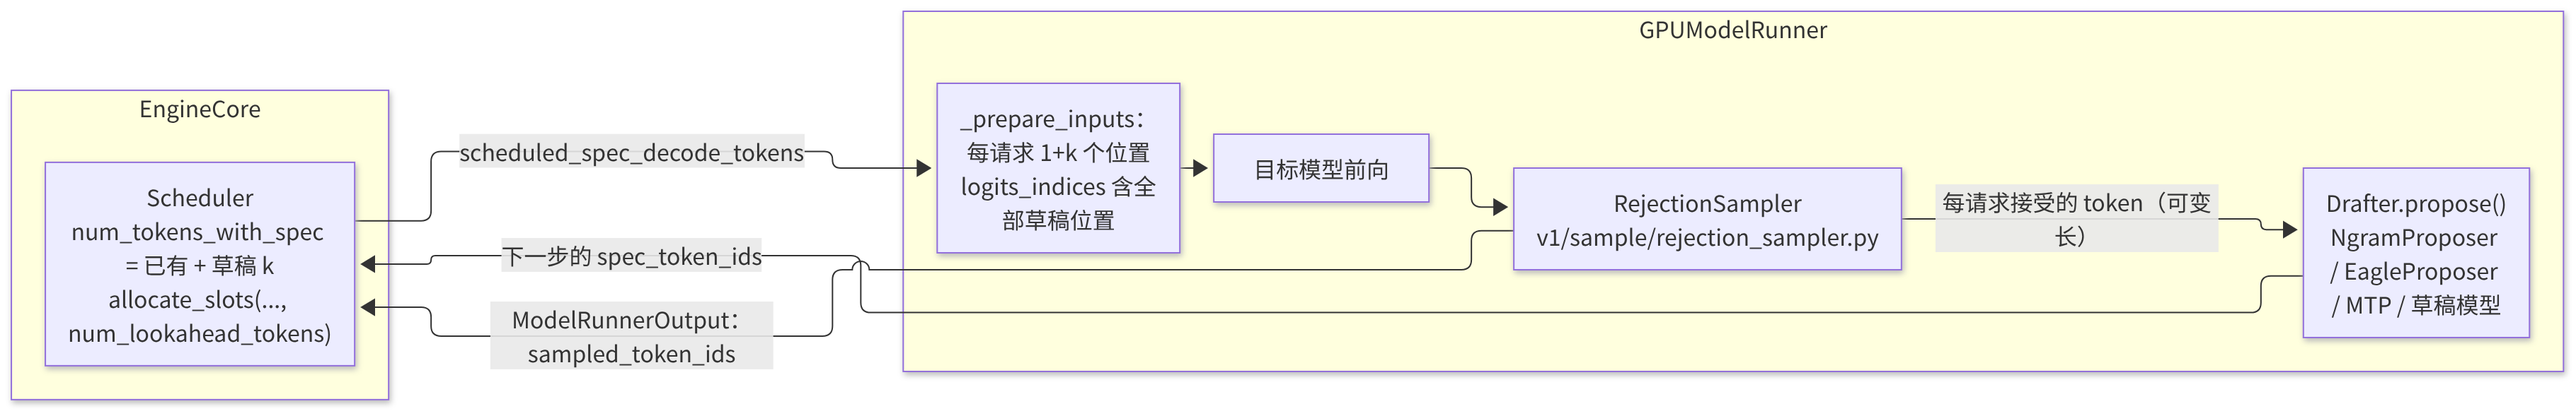
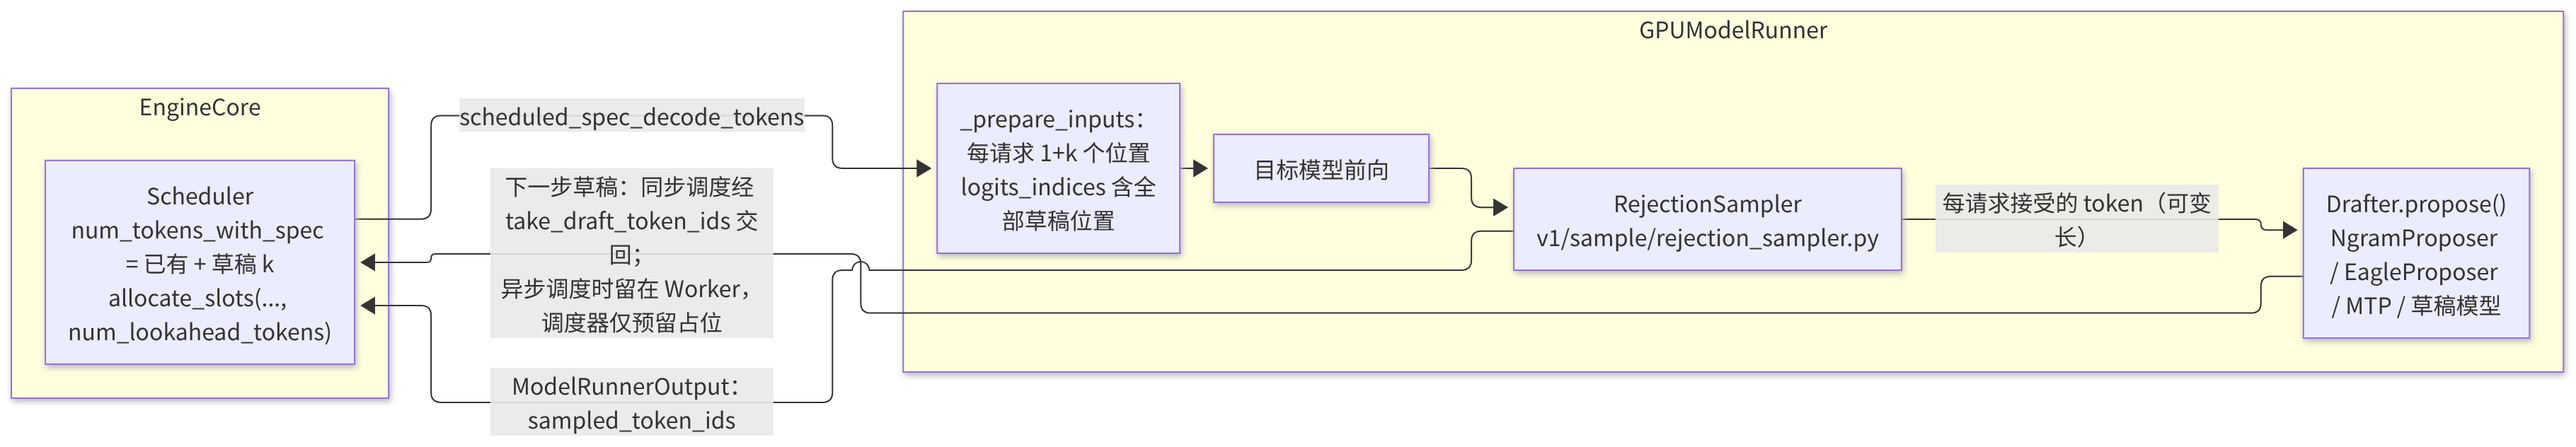
course: audit diagrams against vLLM v0.30.0; follow-up text fixes

diff --git a/course/revised/VERIFICATION.md b/course/revised/VERIFICATION.md
@@ -18,7 +18,7 @@
 
 正文与页脚共 59 处，其中 CONFIRMED 19、CORRECTED 39、UNVERIFIABLE-REWORDED 1、保留 0。
 
-edits.json 共 116 条替换（其中第 8 节所述未标注处修正 22 条）。与【待核】标记相关的替换：其中标记替换 68 条、页首 21 条，另有 5 条依赖性修改（这些文字本身没有标记，但内容直接依赖于某项更正）。
+edits.json 共 120 条替换（其中第 8 节所述未标注处修正 26 条）。与【待核】标记相关的替换：其中标记替换 68 条、页首 21 条，另有 5 条依赖性修改（这些文字本身没有标记，但内容直接依赖于某项更正）。
 
 ## 2. 最重要的更正
 
@@ -163,7 +163,7 @@ edits.json 共 116 条替换（其中第 8 节所述未标注处修正 22 条）
 - 提取 21 课中全部行内代码标识符、`VLLM_*` 环境变量与 `--` 参数，逐一在 `/workspace/vllm-src` 中检索是否存在；
 - 对同一行中“文件路径 + 符号”的组合，检查该符号是否确实定义在所写的文件中。
 
-修正共 22 处（`kind` 为 `extra` / `extra-insert`），均已写入 `/workspace/feishu-lessons-verified/` 与 `edits.json`。保留旧名称的括注，是为了方便阅读旧版本代码的读者对照。
+修正共 26 处（X01–X22 为第二轮检索结果，X23–X26 为第三轮图示核对时为保持正文与图示一致而补充）（`kind` 为 `extra` / `extra-insert`），均已写入 `/workspace/feishu-lessons-verified/` 与 `edits.json`。保留旧名称的括注，是为了方便阅读旧版本代码的读者对照。
 
 | ID | 课 | 修正内容 | 证据（v0.30.0） |
 |---|---|---|---|
@@ -189,6 +189,10 @@ edits.json 共 116 条替换（其中第 8 节所述未标注处修正 22 条）
 | X20 | B2 | B2 §4-5：init_device 中的 torch.cuda.set_device → torch.accelerator.set_device_index | vllm-src/vllm/v1/worker/gpu_worker.py:360,424 |
 | X21 | B6 | B6 §0：在先修要求段落之后新增“版本说明”段落（V2 为默认、V1 为回退、参见 F4） | vllm-src/vllm/envs.py:300,2037-2038; vllm/config/vllm.py:675-723,2815-2882; vllm/v1/worker/gpu_worker.py:469-478; vllm/v1/worker/gpu/model_runner.py:187,1631,1997 |
 | X22 | B6 | B6 §4：在介绍 GPUModelRunner 处注明其为 V1 实现，V2 位置见 F4 | vllm-src/vllm/v1/worker/gpu/model_runner.py:187; vllm/config/vllm.py:675-723 |
+| X23 | E2 | E2 §PP 消除气泡：max_concurrent_batches 属于 VllmConfig 而非 Executor，异步调度 + V2 时为 PP+1（与图 E2-fig2 一致） | vllm-src/vllm/config/vllm.py:589-599; vllm/v1/engine/core.py:210-237 |
+| X24 | E2 | E2 §源码：max_concurrent_batches 的位置 multiproc_executor.py → config/vllm.py | vllm-src/vllm/config/vllm.py:589（multiproc_executor.py 中已无 max_concurrent_batches） |
+| X25 | B6 | B6 §4 第 10 步：细化首轮 Q18 的表述，区分同步/异步调度下草稿的回传方式（与图 F1-fig1/fig2 一致） | vllm-src/vllm/v1/engine/core.py:621-628,727-735; vllm/v1/core/sched/async_scheduler.py:16,42-44; vllm/v1/core/sched/scheduler.py:2404-2460 |
+| X26 | C1 | C1 §源码-4：补入 KV 写入算子 unified_kv_cache_update（与图 C1-fig2 一致） | vllm-src/vllm/model_executor/layers/attention/attention.py:540-575,716-740; vllm/v1/attention/backends/triton_attn.py:316,756; vllm/v1/attention/backends/flash_attn.py:320,1438 |
 
 ### 8.1 不确定、未作修改的项
 
@@ -201,3 +205,70 @@ edits.json 共 116 条替换（其中第 8 节所述未标注处修正 22 条）
 - **以“旧版本中为……”括注保留的旧名称**（如 `VLLM_ALL2ALL_BACKEND`、`VLLM_ATTENTION_BACKEND`、`VLLM_TORCH_PROFILER_DIR`、`gpu_cache_usage_perc`、`P2pNcclConnector`、`SharedStorageConnector`、`FusedMoE`、`FusionPass`、`AttnFusionPass`、`rebalance_algo.py`、`--eplb-window-size` 等）：属于有意保留的对照说明。
 - **检索方法的局限**：本轮检索只能发现“名称已不存在或位置不符”的问题，无法发现名称仍存在但语义或默认值已变化的表述。对于默认值类表述，除已核对的 B3 参数表（`--max-num-seqs` 为 256～1 024，`--long-prefill-token-threshold` 为 0，均与 `arg_utils.py:2730-2792`、`config/scheduler.py:70` 一致）外，未作系统性复核。
 
+
+## 9. 图示核对
+
+本节为 2026-10-08（UTC+8）对全部 45 幅图示的核对结果。Mermaid 源文件位于 `/workspace/mmdc/src/<ID>/<ID>-figN.mmd`，图中标签逐项核对了两方面：
+
+- 是否与 v0.30.0 源码（`/workspace/vllm-src`）一致，核对对象包括标识符、路径、参数、环境变量与行为描述；
+- 是否与已更正的课件正文（`/workspace/feishu-lessons-verified/`）一致。
+
+仍然存在的名称不作修改，例如 `LLMEngine.step`、`FusedMoEMethodBase`、`Fp8LinearMethod`、`cutlass_scaled_mm`、`RayDistributedExecutor`、`WorkerWrapperBase`、`rpc_broadcast_mq`、`FreeKVCacheBlockQueue`、`find_longest_cache_hit`、`CudagraphDispatcher`、`initialize_cudagraph_keys`、`PostGradPassManager`、`START_DP_WAVE`、`execute_dummy_batch`、`rearrange_expert_weights_inplace`、`VLLM_NIXL_SIDE_CHANNEL_PORT`，以及 A1 图 2 中的各条日志文本。改动遵循以下原则：只修正确属过时或与正文不一致的标签，保持原有布局，标签尽量简短。修改前的源文件与 PNG 备份于 `/workspace/daihe/diagrams/`。
+
+### 9.1 图示改动（共 19 处标签修改，涉及 14 幅图；另有 F4 图 1、图 2 因源文件已删除【待核】而重新渲染）
+
+| 图 | 修改内容 | 原标签 | 新标签 | 证据（v0.30.0） |
+|---|---|---|---|---|
+| B1-fig1 | 前端组件名统一为 InputProcessor（与 B1 正文 Q05 一致） | IP["Processor / InputProcessor<br/>tokenize + 校验"] | IP["InputProcessor<br/>tokenize + 校验"] | vllm-src/vllm/v1/engine/input_processor.py:38; vllm/v1/engine/async_llm.py:146 |
+| B1-fig2 | 参与者 Processor → InputProcessor | participant P as Processor | participant P as InputProcessor | vllm-src/vllm/v1/engine/input_processor.py:38,281 |
+| B1-fig2 | 每步执行拆分为 execute_model 与 sample_tokens（与 B1 正文 Q06 一致） | BL->>BL: executor.execute_model() | BL->>BL: executor.execute_model() → sample_tokens() | vllm-src/vllm/v1/engine/core.py:589-619 |
+| B2-fig2 | torch.cuda.set_device → torch.accelerator.set_device_index（与 B2 正文 X20 一致） | init_device()（set_device、init_distributed_environment、建 TP/PP 组） | init_device()（set_device_index、init_distributed_environment、建 TP/PP 组） | vllm-src/vllm/v1/worker/gpu_worker.py:360,424,432 |
+| B4-fig2 | save_new_computed_blocks → allocate_new_computed_blocks | M->>C: save_new_computed_blocks()（命中块 touch：ref+1，移出空闲队列） | M->>C: allocate_new_computed_blocks()（命中块 touch：ref+1，移出空闲队列） | vllm-src/vllm/v1/core/kv_cache_coordinator.py:233; vllm/v1/core/kv_cache_manager.py:571（save_new_computed_blocks 已不存在） |
+| B5-fig1 | 删除已迁出主仓库的 BitsAndBytes / GGUF 加载器，补入仍在注册表中的 Tensorizer（与 D2 正文 Q36 一致） | OT["ShardedStateLoader / BitsAndBytes / GGUF / RunAI streamer ..."] | OT["ShardedStateLoader / Tensorizer / RunAI streamer ..."] | vllm-src/vllm/model_executor/model_loader/__init__.py:50-66; docs/features/quantization/bnb.md:6-13; docs/features/quantization/gguf.md:6-13 |
+| B6-fig1 | Processor → InputProcessor | LLMEngine / AsyncLLM + Processor + OutputProcessor | LLMEngine / AsyncLLM + InputProcessor + OutputProcessor | vllm-src/vllm/v1/engine/input_processor.py:38 |
+| B6-fig2 | Processor → InputProcessor | add_request() × N（Processor 转为 EngineCoreRequest） | add_request() × N（InputProcessor 转为 EngineCoreRequest） | vllm-src/vllm/v1/engine/llm_engine.py; vllm/v1/engine/input_processor.py:281 |
+| B6-fig2 | 忙循环调用 step_fn：启用异步调度（默认）或 PP>1 时为 step_with_batch_queue（与 B1 正文第 7 步一致） | C->>K: （另一进程）run_busy_loop → step() | C->>K: （另一进程）run_busy_loop → step_fn()（step 或 step_with_batch_queue） | vllm-src/vllm/v1/engine/core.py:210-237,630; vllm/config/vllm.py:589-599 |
+| B6-fig2 | 补入 sample_tokens 调用：ModelRunnerOutput 由 sample_tokens 返回（与 B6 正文 Q18 一致） | X->>R: Worker.execute_model → GPUModelRunner.execute_model⏎    R-->>X: ModelRunnerOutput | X->>R: Worker.execute_model → GPUModelRunner.execute_model⏎    K->>X: sample_tokens(grammar_output)⏎    X->>R: GPUModelRunner.sample_tokens⏎    R-->>X: ModelRunnerOutput | vllm-src/vllm/v1/engine/core.py:589-619; vllm/v1/worker/gpu_model_runner.py:4187,4566 |
+| C1-fig2 | KV 写入在 Triton/FlashAttention 等后端中已从 Impl.forward 拆出，改由 unified_kv_cache_update → do_kv_cache_update 先行完成 | L->>I: forward(layer, q, k, v, kv_cache, attn_metadata, output)⏎    I->>I: reshape_and_cache 写新 K/V → 调 kernel 计算注意力 | L->>I: do_kv_cache_update（经 unified_kv_cache_update 写入新 K/V）⏎    L->>I: forward(layer, q, k, v, kv_cache, attn_metadata, output)⏎    I->>I: 调用 kernel 计算注意力 | vllm-src/vllm/model_executor/layers/attention/attention.py:540-575,716-740; vllm/v1/attention/backends/triton_attn.py:316,756-790; vllm/v1/attention/backends/flash_attn.py:320,1438 |
+| C2-fig2 | dispatch 签名：接收 num_tokens 等参数，返回 (mode, BatchDescriptor)（与 B6 正文 Q17 一致） | MR->>D: dispatch(BatchDescriptor(num_tokens, uniform_decode)) | MR->>D: dispatch(num_tokens, uniform_decode, ...) | vllm-src/vllm/v1/cudagraph_dispatcher.py:235-243; vllm/v1/worker/gpu_model_runner.py:3999-4006 |
+| E1-fig1 | 引擎上报的统计含 KV 使用率（与 E1 正文 Q40 的打分公式一致） | EC0 -- "队列长度 (waiting, running)" --> COORD | EC0 -- "负载统计 (waiting, running, KV 使用率)" --> COORD | vllm-src/vllm/v1/engine/coordinator.py:142; vllm/v1/engine/core_client.py:1546-1597 |
+| E2-fig2 | max_concurrent_batches 取值（与 B2 正文 Q09 一致） | Note over EC,S1: max_concurrent_batches = PP 大小，两个 stage 同时忙碌 | Note over EC,S1: max_concurrent_batches ≥ PP 大小（异步调度 + V2 时为 PP+1），两个 stage 同时忙碌 | vllm-src/vllm/config/vllm.py:589-599 |
+| E4-fig2 | FusedMoE 类已不存在，前向入口为 MoERunner（与 E3 正文 X01-X04 一致） | participant M as FusedMoE 前向（每层） | participant M as MoE 层前向（MoERunner） | vllm-src/vllm/model_executor/layers/fused_moe/runner/moe_runner.py:227,681; vllm/model_executor/layers/fused_moe/layer.py:88 |
+| E4-fig2 | rebalance 算法 → DefaultEplbPolicy（与 E4 正文 X08 一致） | participant A as rebalance 算法 | participant A as EPLB 策略（DefaultEplbPolicy） | vllm-src/vllm/distributed/eplb/policy/default.py:21,275; vllm/distributed/eplb/policy/__init__.py:10 |
+| E4-fig2 | 参数 num_gpus → num_ranks | S->>A: rebalance_experts(负载, 副本总数, 组数, 节点数, GPU 数) | S->>A: rebalance_experts(负载, 副本总数, 组数, 节点数, rank 数) | vllm-src/vllm/distributed/eplb/policy/default.py:275-283 |
+| F1-fig1 | 草稿不随 ModelRunnerOutput 返回：同步调度时经 take_draft_token_ids 交回调度器，异步调度（默认）时留在 Worker 侧 | DR -->\|"下一步的 spec_token_ids"\| SCH | DR -->\|"下一步草稿：同步调度经 take_draft_token_ids 交回；<br/>异步调度时留在 Worker，调度器仅预留占位"\| SCH | vllm-src/vllm/v1/engine/core.py:621-628,727-735; vllm/v1/core/sched/scheduler.py:2404-2460; vllm/v1/core/sched/async_scheduler.py:16,42-44; vllm/v1/outputs.py:324-363,430 |
+| F1-fig2 | ModelRunnerOutput 不含 spec_token_ids，改为注释说明草稿的回传方式（与 B6 正文 Q18 及 X25 一致） | R-->>S: sampled_token_ids=[d1,d2,y3]，spec_token_ids=[e1,e2,e3] | R-->>S: ModelRunnerOutput：sampled_token_ids=[d1,d2,y3]⏎  Note over S,R: 新草稿 [e1,e2,e3] 不在输出中：同步调度时经 take_draft_token_ids() 交回；异步调度时留在 Worker | vllm-src/vllm/v1/outputs.py:324-363（ModelRunnerOutput 无 spec_token_ids 字段）; vllm/v1/engine/core.py:621-628; vllm/v1/core/sched/async_scheduler.py:16,42-44 |
+| F4-fig1 | 源文件中已删除【待核】，子图标题为“ModelRunner V2（GPU 为中心，v0.30.0 默认）”；仅重新渲染 | — | — | vllm/config/vllm.py:675-723（V2 为默认） |
+| F4-fig2 | 源文件中已删除【待核】（“V2：CPU 只传最少信息”）；仅重新渲染 | — | — | vllm/v1/worker/gpu/README.md:1-3 |
+
+重新渲染的 PNG 共 16 个：B1-fig1、B1-fig2、B2-fig2、B4-fig2、B5-fig1、B6-fig1、B6-fig2、C1-fig2、C2-fig2、E1-fig1、E2-fig2、E4-fig2、F1-fig1、F1-fig2、F4-fig1、F4-fig2。渲染命令与 `render.sh` 相同（`-b white -s 2`），渲染后已逐一目视检查：中文与符号均正常显示，无缺字方框，文字清晰可读，布局与原图一致。新 PNG 已同步至以下三处：
+
+- `/workspace/feishu-diagrams/<ID>/`
+- `/workspace/feishu-lessons-verified/images/<ID>/`
+- 归档中的 `course/revised/images/<ID>/`
+
+此外，`/workspace/feishu-diagrams/manifest.json` 中对应图示的 `width_px` / `height_px` 已更新为新尺寸，其余字段未变。
+
+**图题**：各图的含义未发生变化，课件正文中的图题（及 feishu-paste-verified 中的对应文本）均未修改。
+
+**为保持正文与图示一致而补充的正文修改**：见第 8 节 X23–X26。
+
+- X23、X24（E2）：`max_concurrent_batches` 属于 `VllmConfig`，异步调度与 V2 同时启用时为 PP+1。
+- X25（B6）：区分同步与异步调度下草稿 token 的回传方式。这是对首轮 Q18 表述的细化，因为在异步调度（默认）下，草稿并不经 `take_draft_token_ids()` 交回调度器。
+- X26（C1）：补入 KV 写入算子 `unified_kv_cache_update`。
+
+### 9.2 核对后未修改、但需说明的项
+
+- **C1-fig2**：选择器注释中的“block_size”仍是后端选择的依据，只是在 v0.30.0 中改为在函数内部从 `cache_config` 读取，不再是参数。图中的表述不构成错误，因此保留。
+- **C2-fig1**：连线标签“运行时：BatchDescriptor(num_tokens, uniform_decode)”描述的是分发器内部用于查找的键（`dispatch()` 内部构造 `BatchDescriptor` 后查表，见 `cudagraph_dispatcher.py:235-260`），与正文 C2 第 99 行一致，因此保留。
+- **F2-fig2**：“torch.profiler.start()”对应 `--profiler-config` 中 `profiler="torch"` 的情形；若设置为 `cuda`，则改为调用 CUDA profiler API。图中描述的是常用路径，因此保留。
+- **F3-fig2**：“num_computed_tokens = 已加载数”是简化写法。按正文 Q66，当已加载数等于请求总长度时，调度器会将其回退为 `len−1`。这一细节由正文说明，图中未改。
+- **E4-fig2**：“完成后原子切换映射表”。`EPLBConfig.use_async` 默认为 `true`，即重排以非阻塞方式进行，但映射表最终仍是整体切换，因此保留。
+- **B3 正文第 106 行**：“请求的 `spec_token_ids` 由上一步的 drafter 产生”。在异步调度（默认）下，调度器侧的 `spec_token_ids` 实际是值为 −1 的占位（`async_scheduler.py:16,42-44`），真实草稿保留在 Worker 侧。这属于概念层面的简化，未修改，建议课程负责人决定是否补充说明。
+- **B5-fig1**：加载器列表以“...”结尾，未列出 ModelExpress、IPC cache 等较新的加载器，不构成错误。
+
+
+
+## 10. 补充更正
+
+- B3「投机解码（F1）」段：原文称 `spec_token_ids` 均由上一步 drafter 产生；已区分同步调度与默认启用的异步调度（异步调度下调度器仅保留 −1 占位符，草稿保留在 Worker 端），依据见第 9 节 F1 图示核对（`core.py:621-628`、`async_scheduler.py:16,42-44`）。

diff --git a/course/revised/C1-Triton算子.md b/course/revised/C1-Triton算子.md
@@ -108,7 +108,7 @@ def add(x, y):
 1. `vllm/v1/attention/selector.py`：`get_attn_backend(head_size, dtype, kv_cache_dtype, use_mla, ...)`（`block_size` 改由函数内部从 `cache_config` 读取） → `current_platform.get_attn_backend_cls(...)`（`vllm/platforms/cuda.py` 中按计算能力与特性确定选择优先级，候选包括 FlashAttention、FlashInfer、Triton、FlexAttention 及多种 MLA 后端）。用户可通过 `--attention-backend TRITON_ATTN` 或 `--attention-config '{"backend": "TRITON_ATTN"}'` 强制指定；v0.30.0 中已不再提供环境变量 `VLLM_ATTENTION_BACKEND`。
 2. `vllm/v1/attention/backends/`：每个后端文件包含三类组件：`XxxBackend`（静态描述：名称、支持的 head size 与 dtype、KV 形状、builder 与 impl 类）、`XxxMetadataBuilder`（每步将通用元数据转换为后端专用元数据；声明 `cudagraph_support` 能力级别，C2 中将用到）、`XxxImpl`（其 `forward` 实际调用 kernel）。
 3. `vllm/v1/attention/backends/triton_attn.py`：`TritonAttentionBackend` / `TritonAttentionImpl`，核心 kernel 位于 `vllm/v1/attention/ops/triton_unified_attention.py`（`unified_attention`）；KV 写入使用 `triton_reshape_and_cache_flash`（`vllm/v1/attention/ops/triton_reshape_and_cache_flash.py`）或 CUDA 版本的 `reshape_and_cache_flash`。
-4. `vllm/model_executor/layers/attention/attention.py`：`Attention` 层的 `forward` 调用 `torch.ops.vllm.unified_attention_with_output(...)`，这是一个已注册的自定义算子，其内部获取 forward context 后再调用 `self.impl.forward`。该算子同时也是 torch.compile 的分割点（C3）。
+4. `vllm/model_executor/layers/attention/attention.py`：`Attention` 层的 `forward` 先调用 `torch.ops.vllm.unified_kv_cache_update(...)`（内部调用 `impl.do_kv_cache_update()` 写入新 K/V；适用于 `forward_includes_kv_cache_update=False` 的后端，如 Triton、FlashAttention），再调用 `torch.ops.vllm.unified_attention_with_output(...)`，这是一个已注册的自定义算子，其内部获取 forward context 后再调用 `self.impl.forward`。该算子同时也是 torch.compile 的分割点（C3）。
 5. 其他 Triton kernel 示例：`vllm/model_executor/layers/fused_moe/fused_moe.py`（`fused_moe_kernel`，E3）、`vllm/v1/sample/rejection_sampler.py`（拒绝采样 kernel，F1），以及 `vllm/model_executor/layers/quantization/` 下的若干量化 kernel。
 
 ## 5.5 Triton 后端与 CUDA 后端的选择

diff --git a/course/revised/B6-架构总览.md b/course/revised/B6-架构总览.md
@@ -61,7 +61,7 @@
 7. **logits**：`sample_hidden_states = hidden_states[logits_indices]`；`logits = self.model.compute_logits(sample_hidden_states)`（lm_head，可能附加 TP all-gather）。
 8. **结构化输出**：若存在语法约束，`apply_grammar_bitmask` 将不合法 token 的 logits 置为 −inf。
 9. **采样**：`sampler_output = self.sampler(logits, sampling_metadata)`（F1）；投机解码时改为调用 `rejection_sampler`。
-10. **收尾**：将采样结果写回 InputBatch 的 token 缓冲区；若启用投机解码，则由 `drafter.propose(...)` 生成下一步的草稿；构造 `ModelRunnerOutput`（`req_ids`、`sampled_token_ids`、`logprobs`、`prompt_logprobs_dict` 等）。在 v0.30.0 中，`execute_model()` 完成第 1～7 步后将中间结果保存为 `ExecuteModelState` 并返回 `None`，第 8～10 步由 EngineCore 随后调用的 `sample_tokens(grammar_output)` 完成，以配合异步调度；`ModelRunnerOutput` 不再携带草稿 token，草稿由 EngineCore 通过 `take_draft_token_ids()` 另行获取。
+10. **收尾**：将采样结果写回 InputBatch 的 token 缓冲区；若启用投机解码，则由 `drafter.propose(...)` 生成下一步的草稿；构造 `ModelRunnerOutput`（`req_ids`、`sampled_token_ids`、`logprobs`、`prompt_logprobs_dict` 等）。在 v0.30.0 中，`execute_model()` 完成第 1～7 步后将中间结果保存为 `ExecuteModelState` 并返回 `None`，第 8～10 步由 EngineCore 随后调用的 `sample_tokens(grammar_output)` 完成，以配合异步调度；`ModelRunnerOutput` 不再携带草稿 token：未启用异步调度时，草稿由 EngineCore 在每步结束后通过 `take_draft_token_ids()` 取回并交给调度器；启用异步调度（v0.30.0 默认）时，草稿保留在 Worker 侧直接用于下一步，调度器仅为其预留占位。
 
 
 **建议的源码阅读路线**：第一遍仅阅读"主干"，即本课第 3、4 节所列的方法，遇到特性分支（LoRA、多模态、投机解码、PD 分离、结构化输出）一律跳过；第二遍选择一项所关注的特性，沿七层结构自上而下追踪其在每一层的改动；第三遍再阅读与性能相关的细节（持久缓冲区、异步拷贝、图捕获）。遵循这一顺序，即使是长达数千行的 `gpu_model_runner.py`，也可在一至两天内梳理出主线。

diff --git a/course/revised/B3-调度器.md b/course/revised/B3-调度器.md
@@ -103,7 +103,7 @@ V1 对这一问题进行了简洁的抽象：**不区分 Prefill 与 Decode**。
 
 调度器是 vLLM 中修改最频繁的文件之一，原因在于几乎每项新特性都需要在此处增加相应的处理分支。阅读源码时，可按特性对这些分支进行分类理解：
 
-**投机解码（F1）**。请求的 `spec_token_ids` 由上一步的 drafter 产生，因此 `num_tokens_with_spec` 比 `num_tokens` 多 k。调度器在分配 KV 时额外预留 `num_lookahead_tokens` 个槽位，并通过 `scheduled_spec_decode_tokens` 告知 ModelRunner 哪些位置为草稿 token。`update_from_output` 获得被接受的 token 数后，回退多计入的 `num_computed_tokens`；未被接受位置写入的 KV 将在下一步被覆盖，因此无需显式清理。
+**投机解码（F1）**。在同步调度下，请求的 `spec_token_ids` 由上一步的 drafter 产生；在默认启用的异步调度下，调度器仅为草稿位置保留占位符（值为 −1），实际草稿 token 保留在 Worker 端（详见 F1）。两种模式下，`num_tokens_with_spec` 均比 `num_tokens` 多 k。调度器在分配 KV 时额外预留 `num_lookahead_tokens` 个槽位，并通过 `scheduled_spec_decode_tokens` 告知 ModelRunner 哪些位置为草稿 token。`update_from_output` 获得被接受的 token 数后，回退多计入的 `num_computed_tokens`；未被接受位置写入的 KV 将在下一步被覆盖，因此无需显式清理。
 
 **结构化输出**。调度器在组装输出时，为本步涉及的结构化请求收集语法 bitmask 的索引信息；实际的 bitmask 计算由 `StructuredOutputManager` 完成，ModelRunner 在采样前将 bitmask 应用于 logits。每个请求采样得到 token 后，调度器须推进其语法状态机；若语法已到达终止状态，则结束该请求。
 
